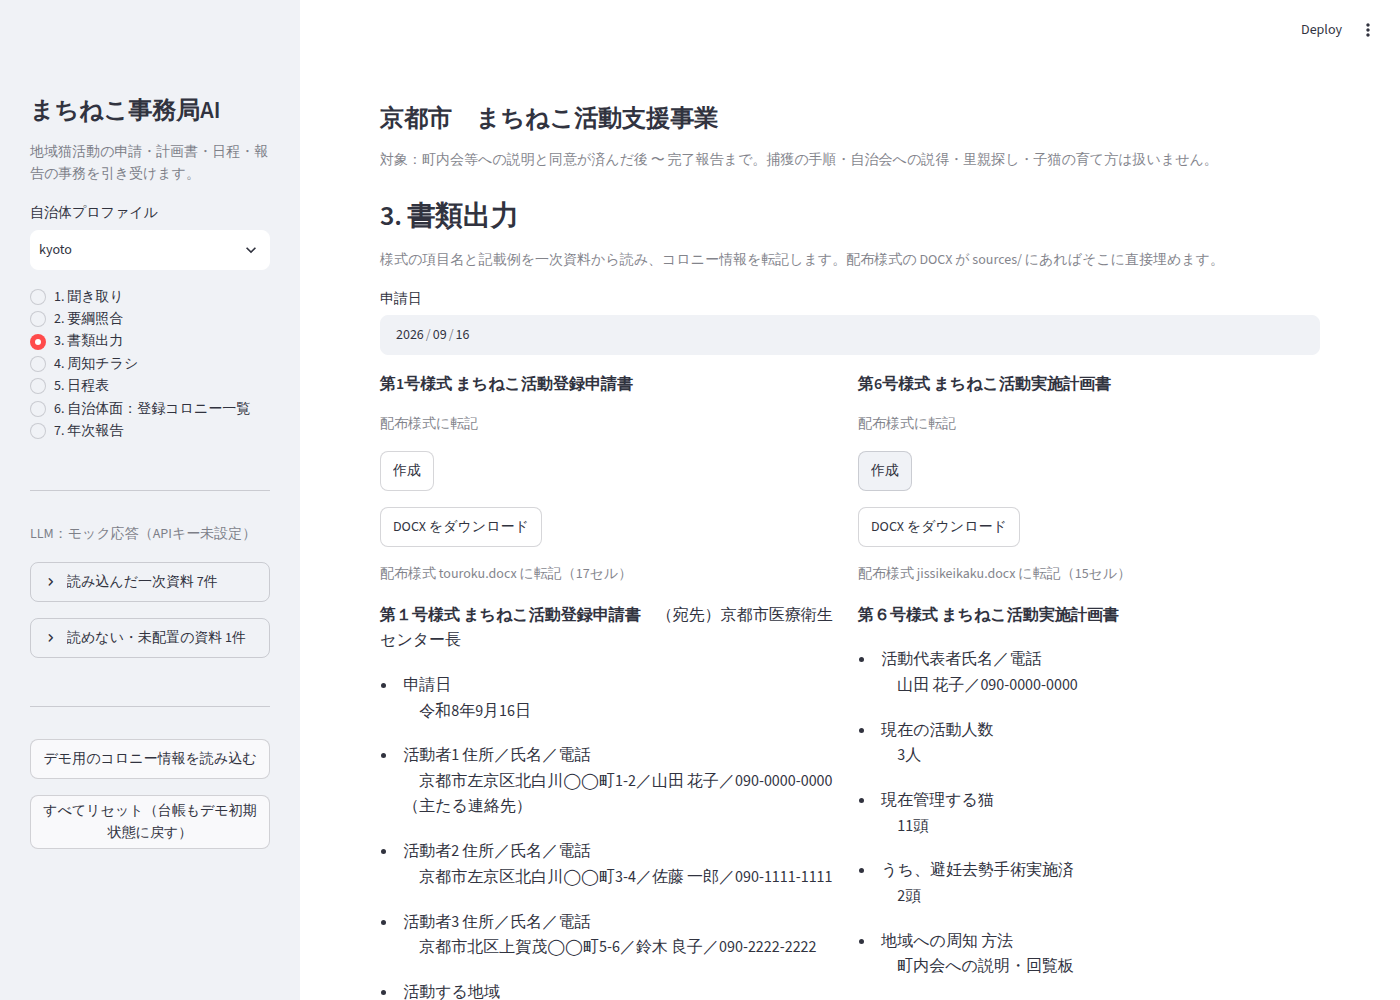
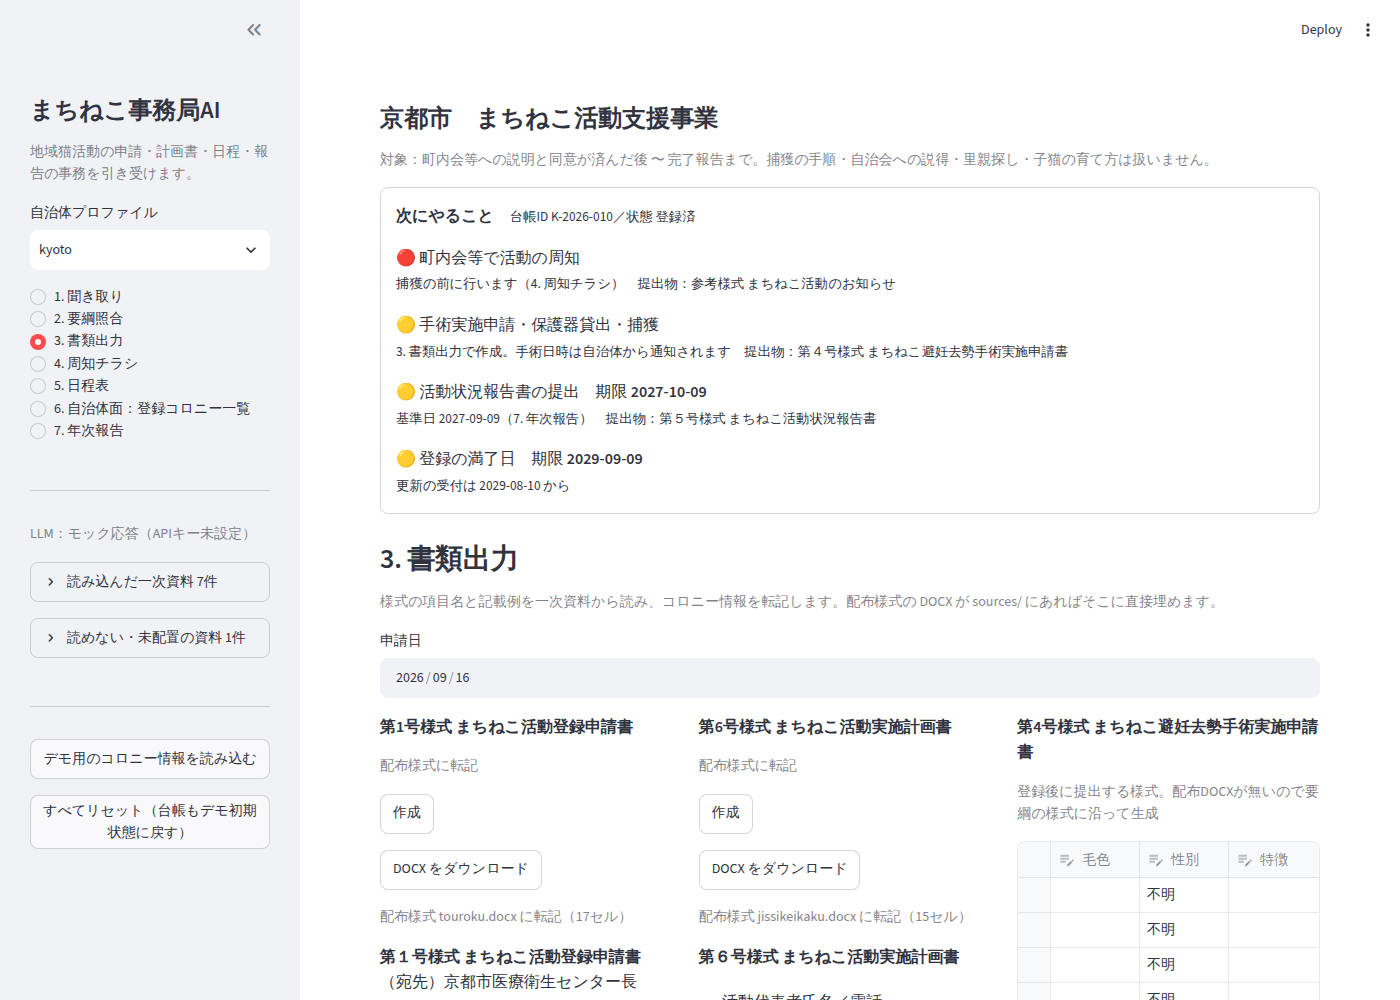
課題定義を差し替え、「次にやること」カードと第4号様式を追加
- HANDOFF §2 を「担い手に制度が押し付ける時間軸と引継ぎの摩擦」の定義で全面差し替え。§5-4 に福岡県モニター調査・京都市10年評価を追加
- CLAUDE.md の一言・5秒説明・作業ルールを更新
- 市民面の先頭に「次にやること」（要綱から抽出した工程と台帳状態から、次の提出物と期限を組み立てる）
- 第4号様式（避妊去勢手術実施申請書）を書類出力に追加。猫の毛色・性別・特徴を表で入力
- 周知チラシ作成を「周知済」として扱い、次にやることに反映

Claude-Session: https://claude.ai/code/session_01DGG5swsi3UuhE3T85vpWG9

diff --git a/app.py b/app.py
@@ -11,7 +11,7 @@ from pathlib import Path
 
 import streamlit as st
 
-from machineko import documents, flyer, intake, report, rules, schedule
+from machineko import documents, flyer, intake, next_actions, report, rules, schedule
 from machineko.registry import Registry
 from machineko.colony import Colony
 from machineko.llm import LLM
@@ -35,6 +35,7 @@ ss.setdefault("submitted_id", None)   # 提出済みならその台帳ID
 ss.setdefault("report_chat", [])
 ss.setdefault("report_draft", None)
 ss.setdefault("report_done", False)
+ss.setdefault("notified", False)
 
 
 @st.cache_resource
@@ -109,6 +110,25 @@ st.markdown(f"#### {profile.name}　{profile.program_name}")
 st.caption("対象：町内会等への説明と同意が済んだ後 〜 完了報告まで。捕獲の手順・自治会への説得・里親探し・子猫の育て方は扱いません。")
 
 
+def next_actions_card():
+    """市民面の先頭に出す1枚。要綱から抽出した工程と台帳の状態から組み立てる。"""
+    rec = registry.get(ss.submitted_id) if ss.submitted_id else None
+    d = registry.deadlines(rec) if rec else None
+    acts = next_actions.next_actions(
+        spec=ss.timeline_spec, intake_complete=ss.intake_complete, findings=ss.findings, forms_done=set(ss.forms.keys()),
+        record=rec, deadlines=d, notified=ss.notified or ss.flyer is not None, surgery_form_done="surgery" in ss.forms,
+    )
+    icon = {"now": "🔴", "soon": "🟡", "wait": "⏳", "late": "‼"}
+    with st.container(border=True):
+        st.markdown("**次にやること**" + (f"　<small>台帳ID {rec['id']}／状態 {d['status']}</small>" if rec else ""), unsafe_allow_html=True)
+        for x in acts:
+            due = f"　期限 **{x['due']}**" if x["due"] else ""
+            docs = f"　提出物：{'、'.join(x['docs'])}" if x["docs"] else ""
+            st.markdown(f"{icon[x['level']]} {x['title']}{due}  \n<small>{x['note']}{docs}</small>", unsafe_allow_html=True)
+        if ss.timeline_spec is None:
+            st.caption("要綱から工程を抽出すると、様式名と期限が入ります（5. 日程表）。")
+
+
 def colony_panel():
     st.markdown("**コロニー情報**")
     for line in ss.colony.summary_lines():
@@ -116,6 +136,9 @@ def colony_panel():
     with st.expander("JSON"):
         st.code(ss.colony.to_json(), language="json")
 
+
+if not step.startswith("6."):
+    next_actions_card()
 
 # ---------- 1. 聞き取り ----------
 if step.startswith("1."):
@@ -202,7 +225,15 @@ elif step.startswith("3."):
         with col:
             st.markdown(f"**{form['label']}**")
             tpl = profile.template_path(key)
-            st.caption("配布様式に転記" if tpl else "配布様式が未配置のため代替生成")
+            if form.get("after_registration"):
+                st.caption("登録後に提出する様式。配布DOCXが無いので要綱の様式に沿って生成")
+                n_default = max((ss.colony.cat_count or 0) - (ss.colony.ear_tipped_count or 0), 1)
+                rows = ss.colony.cats or [{"color": "", "sex": "不明", "features": ""} for _ in range(n_default)]
+                edited = st.data_editor(rows, num_rows="dynamic", key=f"cats_{key}", use_container_width=True,
+                                        column_config={"color": "毛色", "sex": st.column_config.SelectboxColumn("性別", options=["オス", "メス", "不明"]), "features": "特徴"})
+                ss.colony.cats = [dict(r) for r in edited]
+            else:
+                st.caption("配布様式に転記" if tpl else "配布様式が未配置のため代替生成")
             if st.button("作成", key=f"make_{key}"):
                 with st.spinner("記入しています…"):
                     filled = documents.fill_form_fields(llm, profile, ss.colony, key, apply_date)
@@ -220,7 +251,7 @@ elif step.startswith("3."):
                 if fm["filled"]["notes_for_applicant"]:
                     st.info("\n".join(f"- {n}" for n in fm["filled"]["notes_for_applicant"]))
     st.divider()
-    both = all(k in ss.forms for k in profile.forms)
+    both = all(k in ss.forms for k, f in profile.forms.items() if not f.get("after_registration"))
     if ss.submitted_id:
         st.success(f"提出済み。台帳ID {ss.submitted_id}。「6. 自治体面」で一覧に載っています。")
     else:
@@ -229,7 +260,7 @@ elif step.startswith("3."):
             if ss.timeline_spec is None:
                 with st.spinner("報告・更新の期限を要綱から読んでいます…"):
                     ss.timeline_spec = schedule.extract_timeline_spec(llm, profile)
-            rec = registry.submit_application(ss.colony.to_dict(), {k: v["filled"] for k, v in ss.forms.items()}, apply_date, ss.timeline_spec)
+            rec = registry.submit_application(ss.colony.to_dict(), {k: v["filled"] for k, v in ss.forms.items() if not profile.forms[k].get("after_registration")}, apply_date, ss.timeline_spec)
             ss.submitted_id = rec["id"]
             st.rerun()
 
@@ -245,6 +276,7 @@ elif step.startswith("4."):
     if st.button("作成", type="primary"):
         with st.spinner("作成しています…"):
             ss.flyer = flyer.generate_flyer(llm, profile, ss.colony, period)
+            ss.notified = True
     if ss.flyer:
         st.text_area("本文", ss.flyer, height=520)
         st.download_button("テキストをダウンロード", data=ss.flyer.encode("utf-8"), file_name="osirase.txt", mime="text/plain")

diff --git a/machineko/next_actions.py b/machineko/next_actions.py
@@ -1,0 +1,69 @@
+"""市民面の先頭に出す「次にやること」。
+
+要綱から抽出した工程（timeline spec）と、台帳の状態、画面の進み具合から、次の1〜3件を組み立てる。
+規則の中身（様式名・期限日数）は spec と台帳の rules から取り、ここには書かない。
+"""
+from __future__ import annotations
+
+import datetime as dt
+
+
+def _docs(spec: dict | None, key: str) -> list[str]:
+    for s in (spec or {}).get("steps", []):
+        if s["key"] == key:
+            return list(s.get("documents", []))
+    return []
+
+
+def _label(spec: dict | None, key: str, default: str) -> str:
+    for s in (spec or {}).get("steps", []):
+        if s["key"] == key:
+            return s["label"]
+    return default
+
+
+def next_actions(*, spec: dict | None, intake_complete: bool, findings: dict | None, forms_done: set[str],
+                 record: dict | None, deadlines: dict | None, notified: bool, surgery_form_done: bool,
+                 today: dt.date | None = None) -> list[dict]:
+    """各要素: {"title", "due"(date|None), "docs"(list), "note", "level"("now"|"soon"|"wait"|"late")}"""
+    today = today or dt.date.today()
+    out: list[dict] = []
+
+    if not intake_complete:
+        out.append({"title": "聞き取りを終える", "due": None, "docs": [], "note": "様式に必要な項目を会話で集めます（1. 聞き取り）", "level": "now"})
+        return out
+    if findings is None:
+        out.append({"title": "要綱に照らして不足を確認する", "due": None, "docs": [], "note": "2. 要綱照合", "level": "now"})
+        return out
+    lacking = [f for f in findings.get("findings", []) if f["level"] == "不足"]
+    if lacking:
+        out.append({"title": f"不足 {len(lacking)} 件を解消する", "due": None, "docs": [], "note": "／".join(f["action"] or f["message"] for f in lacking[:3]), "level": "now"})
+        return out
+    if record is None:
+        need = _docs(spec, "apply") or ["登録申請書", "活動実施計画書"]
+        done = {"registration", "plan"} <= forms_done
+        out.append({"title": _label(spec, "apply", "申請書類を提出する"), "due": None, "docs": need,
+                    "note": "3. 書類出力で作成し、提出ボタンで台帳に載せます" if not done else "2様式は作成済み。提出ボタンを押してください", "level": "now"})
+        return out
+    if not record.get("registered_date"):
+        out.append({"title": _label(spec, "review", "審査・現地調査を待つ"), "due": None, "docs": [], "note": f"台帳ID {record['id']}。日程は自治体から連絡があります", "level": "wait"})
+        return out
+
+    # 登録後
+    if not notified:
+        out.append({"title": _label(spec, "notify", "地域へ周知する"), "due": None, "docs": _docs(spec, "notify"), "note": "捕獲の前に行います（4. 周知チラシ）", "level": "now"})
+    if not surgery_form_done:
+        docs = _docs(spec, "trap")
+        out.append({"title": _label(spec, "trap", "手術を申請する"), "due": None, "docs": docs, "note": "3. 書類出力で作成。手術日時は自治体から通知されます", "level": "now" if notified else "soon"})
+    d = deadlines or {}
+    if d.get("status") == "期限超過":
+        out.append({"title": "期限を過ぎています。至急提出", "due": d.get("next_report_due") or d.get("renewal_due"), "docs": _docs(spec, "annual_report") if d.get("next_report_due") else _docs(spec, "renewal"), "note": "自治体に連絡してください", "level": "late"})
+    elif d.get("renewal_open") and today >= d["renewal_open"]:
+        out.append({"title": _label(spec, "renewal", "登録を更新する"), "due": d["renewal_due"], "docs": _docs(spec, "renewal"), "note": f"受付期間 {d['renewal_open']} 〜 {d['renewal_due']}", "level": "now"})
+    elif d.get("next_report_base"):
+        level = "now" if today >= d["next_report_base"] else "soon"
+        out.append({"title": _label(spec, "annual_report", "活動状況を報告する"), "due": d["next_report_due"], "docs": _docs(spec, "annual_report"),
+                    "note": f"基準日 {d['next_report_base']}（7. 年次報告）", "level": level})
+    if d.get("renewal_due") and not any(a["level"] == "now" and "更新" in a["title"] for a in out):
+        out.append({"title": "登録の満了日", "due": d["renewal_due"], "docs": [], "note": f"更新の受付は {d.get('renewal_open')} から", "level": "soon"})
+    return out[:4]

diff --git a/machineko/mock.py b/machineko/mock.py
@@ -165,6 +165,23 @@ def _fill(ctx, form_key: str) -> dict:
                  "裏面の記載事項（給餌管理、トイレ清掃、全頭手術、保護器の扱い等）に活動者全員が同意している必要があります。"]
         return {"form_title": "第１号様式 まちねこ活動登録申請書", "addressed_to": "（宛先）京都市医療衛生センター長", "fields": fields, "cell_edits": edits, "notes_for_applicant": notes}
 
+    if form_key == "surgery":
+        cats = c.get("cats") or []
+        fields = [
+            {"label": "提出日", "value": apply_w, "status": "記入済" if apply_date else "未入力"},
+            {"label": "住所／活動者氏名／電話", "value": f"{rep.get('address','')}／{rep.get('name','')}／{rep.get('phone','')}", "status": "記入済"},
+            {"label": "登録地域名", "value": f"{c.get('ward','')}{c.get('town','')}", "status": "記入済"},
+        ]
+        for i, cat in enumerate(cats, 1):
+            sex = cat.get("sex") or "不明"
+            fields.append({"label": f"番号{i}　毛色／性別／特徴", "value": f"{cat.get('color','')}／{'☑' if sex=='オス' else '□'}オス {'☑' if sex=='メス' else '□'}メス {'☑' if sex=='不明' else '□'}不明／{cat.get('features','')}", "status": "記入済" if cat.get("color") else "未入力"})
+        if not cats:
+            fields.append({"label": "番号1　毛色／性別／特徴", "value": "", "status": "未入力"})
+        notes = ["裏面（手術内容・危険性・手術前12時間の絶食）を理解し同意したうえで提出します。",
+                 "手術日と放猫日は「ここは記入しないで下さい」欄で、センター側が記入します。",
+                 "この様式は登録後に提出するものです（要綱第9条）。"]
+        return {"form_title": "第４号様式 まちねこ避妊去勢手術実施申請書", "addressed_to": "（宛先）京都市医療衛生センター長", "fields": fields, "cell_edits": [], "notes_for_applicant": notes}
+
     # 第6号様式
     ey, em, ed = _wareki_parts(c.get("explained_date", ""))
     methods_all = ["町内会への説明", "回覧板", "掲示板", "投函"]

diff --git a/tests/test_next_actions.py b/tests/test_next_actions.py
@@ -1,0 +1,29 @@
+import datetime as dt
+
+from machineko.next_actions import next_actions
+from machineko.mock import _timeline_spec
+
+SPEC = _timeline_spec()
+
+
+def test_before_submit():
+    a = next_actions(spec=SPEC, intake_complete=False, findings=None, forms_done=set(), record=None, deadlines=None, notified=False, surgery_form_done=False)
+    assert a[0]["title"] == "聞き取りを終える"
+    a = next_actions(spec=SPEC, intake_complete=True, findings={"findings": [], "ready_to_apply": True}, forms_done=set(), record=None, deadlines=None, notified=False, surgery_form_done=False)
+    assert "第１号様式" in "".join(a[0]["docs"])
+
+
+def test_after_registration_uses_spec_documents():
+    rec = {"id": "K-1", "registered_date": "2026-09-09"}
+    d = {"status": "登録済", "next_report_base": dt.date(2027, 9, 9), "next_report_due": dt.date(2027, 10, 9), "renewal_due": dt.date(2029, 9, 9), "renewal_open": dt.date(2029, 8, 10)}
+    a = next_actions(spec=SPEC, intake_complete=True, findings={"findings": []}, forms_done={"registration", "plan"}, record=rec, deadlines=d, notified=False, surgery_form_done=False, today=dt.date(2026, 9, 10))
+    titles = [x["title"] for x in a]
+    assert any("周知" in t for t in titles) and any("第４号様式" in doc for x in a for doc in x["docs"])
+    assert any(x["due"] == dt.date(2027, 10, 9) for x in a)
+
+
+def test_renewal_window():
+    rec = {"id": "K-1", "registered_date": "2023-09-25"}
+    d = {"status": "更新待ち", "next_report_base": None, "next_report_due": None, "renewal_due": dt.date(2026, 9, 25), "renewal_open": dt.date(2026, 8, 26)}
+    a = next_actions(spec=SPEC, intake_complete=True, findings={"findings": []}, forms_done=set(), record=rec, deadlines=d, notified=True, surgery_form_done=True, today=dt.date(2026, 9, 9))
+    assert a[0]["level"] == "now" and "第２号様式" in "".join(a[0]["docs"])

diff --git a/machineko/colony.py b/machineko/colony.py
@@ -54,6 +54,8 @@ class Colony:
     notify_frequency_per_year: int | None = None  # 周知の頻度（年 回）
     # 活動者
     members: list[Member] = dataclasses.field(default_factory=list)
+    # 手術を申請する猫（第4号様式用）。{"color","sex","features"}
+    cats: list[dict] = dataclasses.field(default_factory=list)
     notes: str = ""
 
     def to_dict(self) -> dict[str, Any]:
@@ -66,6 +68,8 @@ class Colony:
         known = {k: v for k, v in d.items() if k in cls.__dataclass_fields__}
         if known.get("notify_methods") is None:
             known["notify_methods"] = []
+        if known.get("cats") is None:
+            known["cats"] = []
         return cls(members=members, **known)
 
     def to_json(self) -> str:
@@ -149,6 +153,9 @@ _PROPS = {
             "required": ["name", "address", "is_resident", "is_kyoto_citizen", "role", "phone"],
         },
     },
+    "cats": {"type": ["array", "null"], "items": {"type": "object", "additionalProperties": False,
+             "properties": {"color": {"type": "string"}, "sex": {"type": "string"}, "features": {"type": "string"}},
+             "required": ["color", "sex", "features"]}},
     "notes": _s(),
 }
 

diff --git a/tests/test_pipeline_mock.py b/tests/test_pipeline_mock.py
@@ -24,13 +24,13 @@ def test_end_to_end_mock():
     assert rules.check_colony(llm, p, r, c2)["ready_to_apply"] is False
 
     import docx, io
-    for key in p.forms:
+    for key, form in p.forms.items():
         filled = documents.fill_form_fields(llm, p, c, key, dt.date(2026, 9, 15))
         data, how = documents.render_docx(p, key, filled)
-        assert "配布様式" in how
+        assert ("配布様式" in how) == bool(form.get("template"))
         d = docx.Document(io.BytesIO(data))
         text = "\n".join(cell.text for t in d.tables for row in t.rows for cell in row.cells)
-        assert "山田 花子" in text and "11" in text
+        assert "山田 花子" in text and ("11" in text or form.get("after_registration"))
 
     assert "まちねこ活動のお知らせ" in flyer.generate_flyer(llm, p, c, "")
 

diff --git a/CLAUDE.md b/CLAUDE.md
@@ -5,11 +5,11 @@
 
 ## 一言で
 
-地域猫活動（京都市では「まちねこ活動」）の **申請・計画書・日程・報告という事務を、無償ボランティアの代わりにLLMが引き受ける** ツール。
-1つのコロニー（猫の群れ）を「自治会同意が取れた後」から「完了報告」まで、事務ゼロで通す。
+地域猫活動の担い手（無償・少数・高齢）に、制度（自治体・基金・病院）が押し付けている **時間軸と引継ぎの摩擦** を消すツール。
+コロニーを1つ登録すると、その自治体の要綱を LLM が読んで、受付日・必要書類・報告期限・更新期限を逆算した日程を持ち、期限が来れば促し、様式を埋めて出す。市の側には登録コロニーの状態と期限が一覧で残る。
 
-5秒説明（9/9 確定）：**「地域猫の世話をする人が、申請から報告までを会話だけで終えられて、市はその状況を一覧で見られる」**
-市民面（ボランティア）＋自治体面（医療衛生センター職員）の二面構成。
+5秒説明（9/9 三回目で確定）：**「地域猫の世話をする人が、受付も報告も更新も落とさずに回せて、担い手が代わっても市に情報が残る」**
+市民面（ボランティア）＋自治体面（医療衛生センター職員）の二面構成。課題定義の全文は `HANDOFF.md` §2。
 
 ## 締切と優先順位
 
@@ -20,9 +20,11 @@
 ## 作業ルール
 
 - 自治体のルールを **ハードコードしない**。要綱（自然言語）をLLMに読ませて規則を抽出する設計を守る。これがこの作品の「なぜAIか」の核。
-- 対象は **猫一本、京都市一本** で閉じる。横展開の話をコードやUIに入れない（説明資料の一行で十分）。
+- 対象は **猫一本**。京都市は動くデモの1例で、2自治体目（基金型：高島市）は「要綱をハードコードしていない」証明として入れる。横展開の商売の話はしない。
 - 扱わないもの：捕獲そのもの、自治会への説得、里親探し、子猫の育て方。これらはスコープ外と明記して断る。
 - 「かわいそう」「命を救う」系の情緒的コピーをUIに書かない。具体（申請日・様式番号・期限）で語る。
+- 事業の効果（収容減・苦情減）をツールの効果として語らない。ツールは「事業を速く広く回せるようにする」まで。
+- 「引継ぎツールですか」→「申請と報告の副産物として市に残るもの」で統一。担い手を増やさない・捕獲しない・説得しない。
 - 判断に迷ったら止まって聞く。勝手に仕様を広げない。
 - 一次情報のURLは `HANDOFF.md` §5 にある。出典のない数字を作らない。
 
